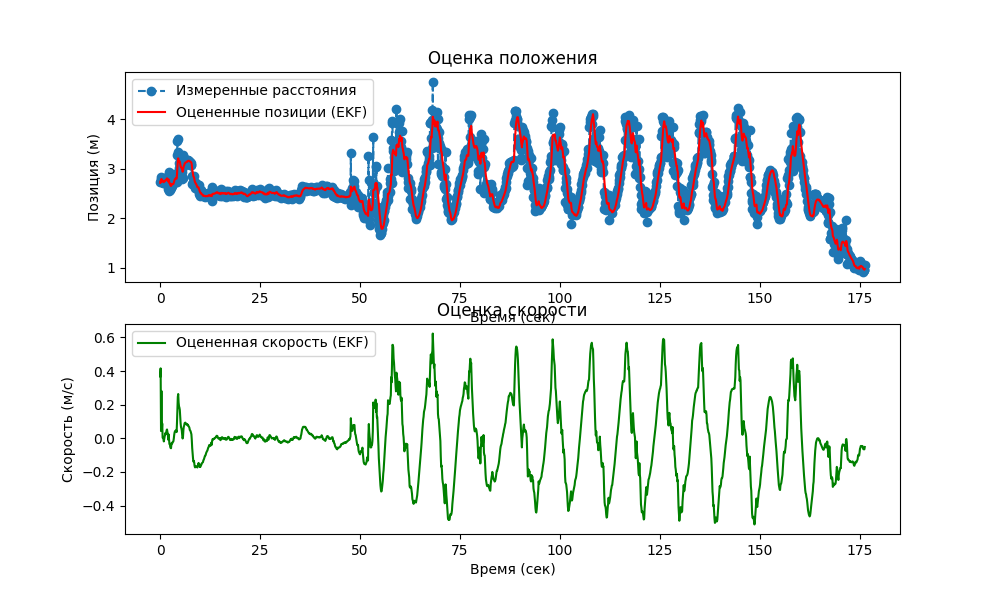
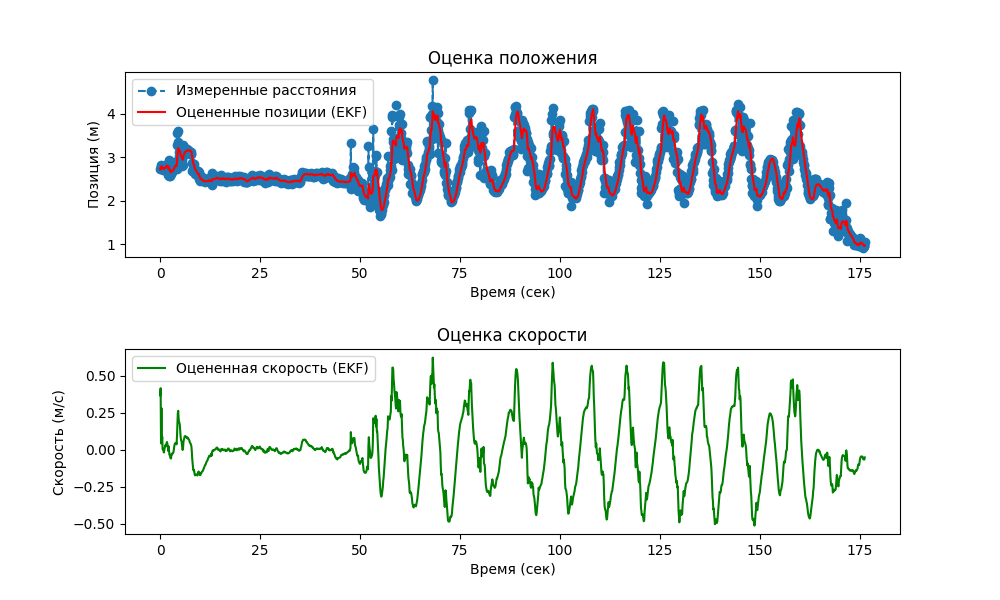
update

diff --git a/src/plot_result.py b/src/plot_result.py
@@ -32,5 +32,7 @@ def plot_results(measured_distances: np.ndarray, estimated_positions: np.ndarray
     plt.xlabel('Время (сек)')
     plt.ylabel('Скорость (м/с)')
     plt.legend()
+
+    plt.subplots_adjust(hspace=0.5)
     plt.savefig("../data/plt.png")
     plt.show()
